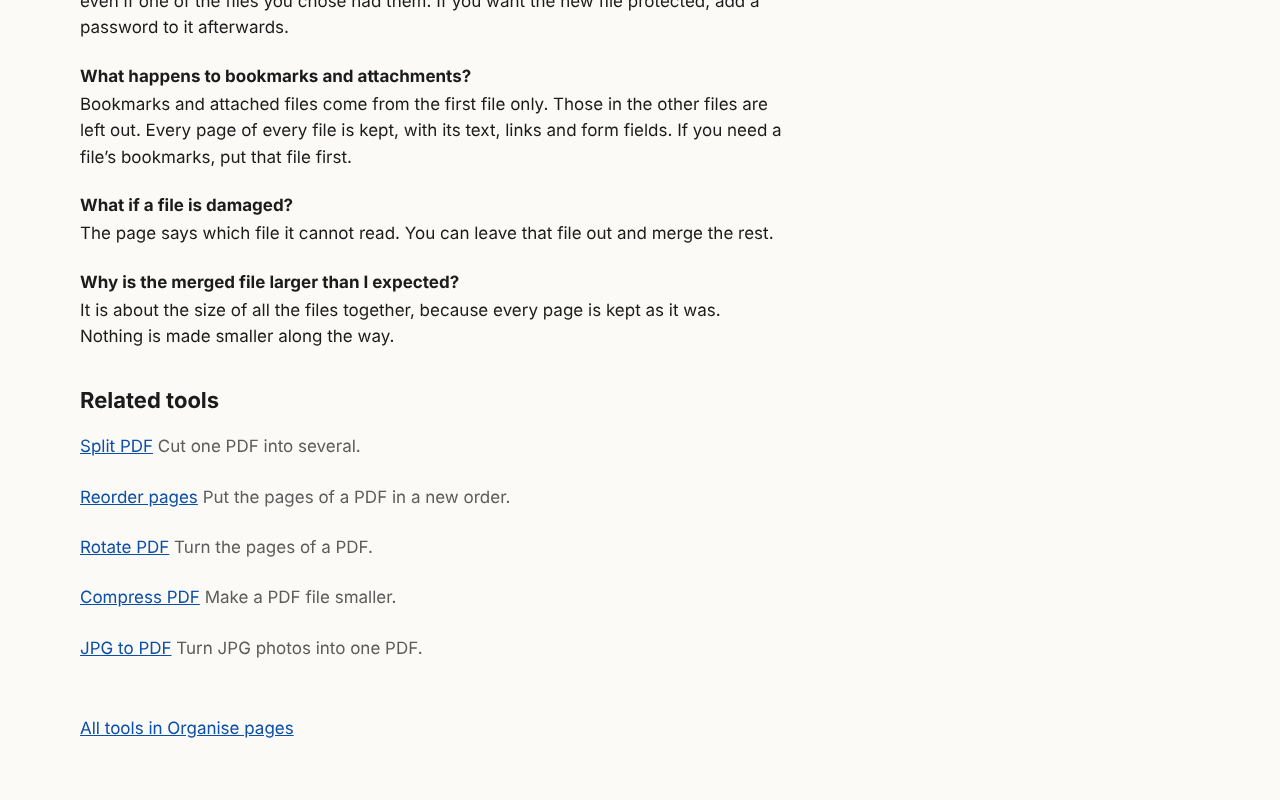
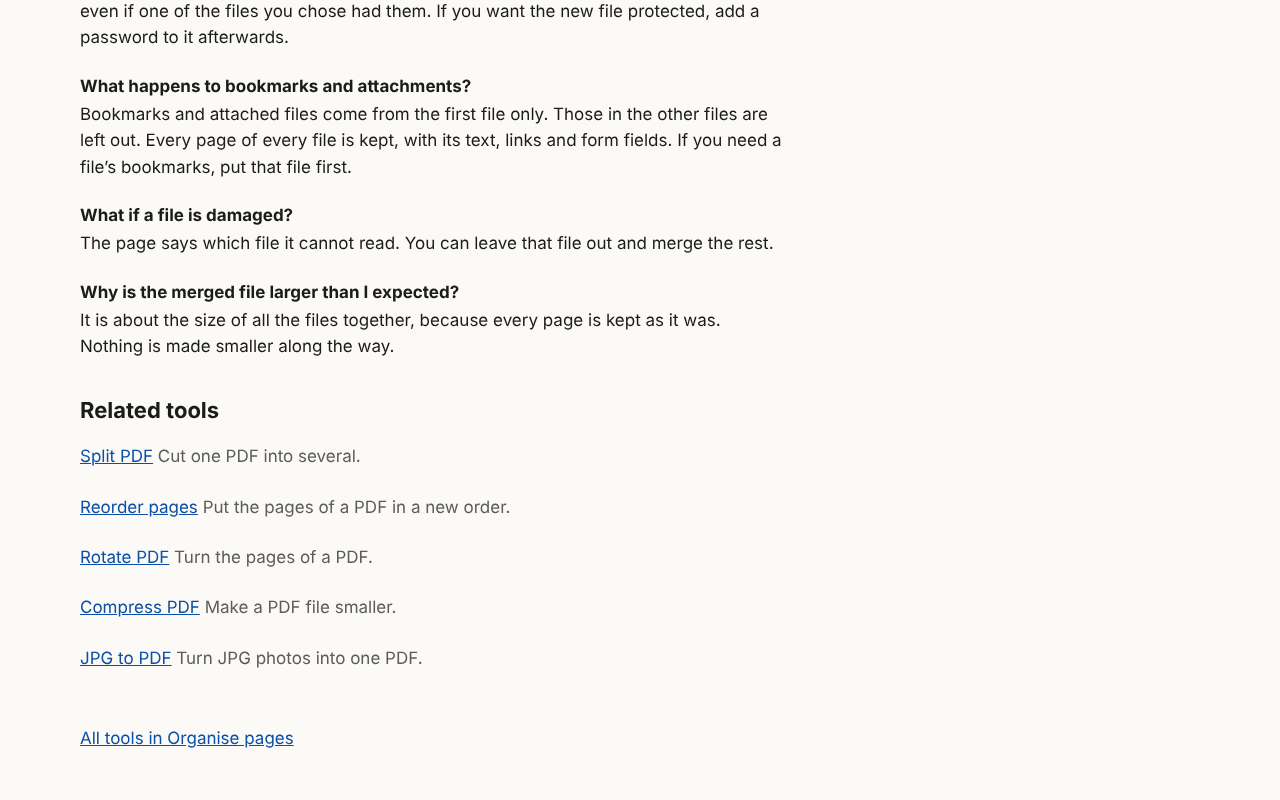
add-search-basics: settle stage 2 review
Hub descriptions claim no more than their tools' pages (Protect: this site
does not upload the file or the password); the group is looked up once;
origin used as checked; the font check catches every Inter family; the
owner's origin is out of the change's files; the 360px hub link shot is
retaken.

Claude-Session: https://claude.ai/code/session_01Ht5n4xeEVAutobXrc7qGtN

diff --git a/src/tools/registry.ts b/src/tools/registry.ts
@@ -326,7 +326,9 @@ export type Tool = {
 /**
  * The seven groups, in the order the home page shows them. A group gets a hub page once it has a
  * published tool. The hub words (title, description, sentence) are drafts for the owner to review.
- * A tool whose addition makes its group's words untrue changes them in its own change.
+ * A tool that joins a group with a hub page updates that group's words in its own change, so the
+ * description still names what the group's tools do and still matches each tool page's own words
+ * about where files go.
  */
 export const groups: Group[] = [
   {
@@ -345,7 +347,7 @@ export const groups: Group[] = [
     slug: 'make-smaller-and-fix',
     title: 'Make a PDF smaller - PDFkaro',
     description: 'Make a PDF file smaller by shrinking its pictures, in your browser. The file stays on your device and is not uploaded.',
-    sentence: 'Make a PDF file smaller by shrinking its pictures.',
+    sentence: 'Tools that make a PDF file smaller.',
     claimsDevice: true,
   },
   {
@@ -371,8 +373,7 @@ export const groups: Group[] = [
     name: 'Edit and sign',
     slug: 'edit-and-sign',
     title: 'Edit and sign a PDF - PDFkaro',
-    description:
-      'Add page numbers, a watermark or a signature to a PDF, in your browser. The file and any signature picture stay on your device and are not uploaded.',
+    description: 'Add page numbers, a watermark or a signature to a PDF, in your browser. The file stays on your device and is not uploaded.',
     sentence: 'Tools that add page numbers, a watermark or a signature to a PDF.',
     claimsDevice: true,
   },
@@ -382,7 +383,7 @@ export const groups: Group[] = [
     slug: 'protect',
     title: 'Add or remove a PDF password - PDFkaro',
     description:
-      'Add a password to a PDF, or remove a password or restrictions, in your browser. The file and any password stay on your device and are not uploaded.',
+      'Add a password to a PDF, or remove a password or restrictions. The file stays on your device. This site does not upload the file or the password.',
     sentence: 'Tools that add a password to a PDF, or remove a password or restrictions.',
     claimsDevice: true,
   },

diff --git a/tests/unit/queries.test.ts b/tests/unit/queries.test.ts
@@ -1,6 +1,6 @@
 import { describe, expect, it } from 'vitest';
 import type { Group, Tool, ToolWidgetWords } from '../../src/tools/registry';
-import { acceptsFor, allPages, findPage, groupsWithItems, hubLink, hubPages, pageWords, relatedItems } from '../../src/tools/queries';
+import { acceptsFor, allPages, findPage, groupOf, groupsWithItems, hubLink, hubPages, pageWords, relatedItems } from '../../src/tools/queries';
 
 const group = (id: Group['id'], name: string, slug: Group['slug']): Group => ({
   id,
@@ -180,13 +180,15 @@ describe('hubPages', () => {
   });
 });
 
-describe('hubLink', () => {
-  it("names the tool's group and links to its hub page under the base", () => {
-    expect(hubLink(groups, tools[1]!, '/')).toEqual({ name: 'Organise pages', href: '/organise-pages' });
-    expect(hubLink(groups, tools[1]!, '/pdfkaro')).toEqual({ name: 'Organise pages', href: '/pdfkaro/organise-pages' });
+describe('groupOf and hubLink', () => {
+  it("find the tool's group and link to its hub page under the base", () => {
+    const group = groupOf(groups, tools[1]!);
+    expect(group.id).toBe('organise');
+    expect(hubLink(group, '/')).toEqual({ name: 'Organise pages', href: '/organise-pages' });
+    expect(hubLink(group, '/pdfkaro')).toEqual({ name: 'Organise pages', href: '/pdfkaro/organise-pages' });
   });
 
-  it('throws for a tool whose group is not in the registry', () => {
-    expect(() => hubLink(groups.slice(0, 1), tools[1]!, '/')).toThrow(/merge/);
+  it('throw for a tool whose group is not in the registry', () => {
+    expect(() => groupOf(groups.slice(0, 1), tools[1]!)).toThrow(/merge/);
   });
 });

diff --git a/tests/unit/seo.test.ts b/tests/unit/seo.test.ts
@@ -9,7 +9,7 @@ const origin = 'https://example.org';
 function dataFor(slug: string, base = '/') {
   const found = findPage(tools, slug)!;
   const group = groups.find((each) => each.id === found.tool.group)!;
-  return toolStructuredData({ tool: found.tool, page: found.page, group, origin, base, siteName });
+  return toolStructuredData({ page: found.page, group, origin, base, siteName });
 }
 
 describe('toolStructuredData', () => {
@@ -76,7 +76,7 @@ describe('jsonForScript', () => {
   const merge = tools.find((tool) => tool.id === 'merge-pdf')!;
   const entry: Tool = { ...merge, id: 'test-hostile', pages: [{ ...merge.pages[0]!, name: hostile, description: `Text ${hostile} here.` }] };
   const group = groups.find((each) => each.id === 'organise')!;
-  const value = toolStructuredData({ tool: entry, page: entry.pages[0]!, group, origin, base: '/', siteName });
+  const value = toolStructuredData({ page: entry.pages[0]!, group, origin, base: '/', siteName });
   const text = jsonForScript(value);
 
   it('leaves no raw <, > or & in the text', () => {

diff --git a/tests/unit/site.test.ts b/tests/unit/site.test.ts
@@ -1,5 +1,5 @@
 import { describe, expect, it } from 'vitest';
-import { absoluteUrl, defaultOrigin, footerLinks, isSiteBase, isSiteOrigin, tagline, withBase } from '../../src/site';
+import { absoluteUrl, defaultOrigin, footerLinks, footerPage, isSiteBase, isSiteOrigin, tagline, withBase } from '../../src/site';
 import { tools as registryTools, type Group, type Tool } from '../../src/tools/registry';
 import { groupsWithItems, relatedItems, toListItem } from '../../src/tools/queries';
 
@@ -137,6 +137,11 @@ describe('the base setting', () => {
 });
 
 describe('footer pages', () => {
+  it('are found by path, and a path with no entry throws', () => {
+    expect(footerPage('/about').label).toBe('About');
+    expect(() => footerPage('/nope')).toThrow('/nope');
+  });
+
   it('each say whether the owner has written them; none is written yet', () => {
     expect(footerLinks.map((link) => [link.href, link.written])).toEqual([
       ['/about', false],

diff --git a/src/tools/queries.ts b/src/tools/queries.ts
@@ -81,10 +81,15 @@ export function hubPages(groups: Group[], tools: Tool[], base: string): HubPage[
   });
 }
 
-/** The hub page link of the group a tool belongs to, as a tool page shows it. */
-export function hubLink(groups: Group[], tool: Tool, base: string): { name: string; href: string } {
+/** The group a tool belongs to. Throws for a group that is not in the registry. */
+export function groupOf(groups: Group[], tool: Tool): Group {
   const group = groups.find((each) => each.id === tool.group);
   if (!group) throw new Error(`Tool ${tool.id} names a group that is not in the registry.`);
+  return group;
+}
+
+/** The link to a group's hub page, as a tool page shows it. */
+export function hubLink(group: Group, base: string): { name: string; href: string } {
   return { name: group.name, href: withBase(base, `/${group.slug}`) };
 }
 

diff --git a/tests/unit/registry.test.ts b/tests/unit/registry.test.ts
@@ -1239,7 +1239,8 @@ describe('new passwords', () => {
 });
 
 describe('group hub pages', () => {
-  // catalogue.ts is a type, so its 54 slugs are read as text, as catalogue.test.ts does.
+  // catalogue.ts is a type, so its slugs are read as text, as catalogue.test.ts does. The pattern matches every
+  // quoted name in the file, a few more than the catalogue's slugs, which only widens what is refused.
   const catalogueSlugs = [...readFileSync('src/tools/catalogue.ts', 'utf8').matchAll(/\| '([^']+)'/g)].map((match) => match[1] ?? '');
   // Addresses a hub page may never take: every footer page (so a new one is covered with no second list), 404 and the two crawler files.
   const reserved = [...footerLinks.map((link) => link.href.slice(1)), '404', 'sitemap.xml', 'robots.txt'];

diff --git a/src/tools/seo.ts b/src/tools/seo.ts
@@ -9,7 +9,6 @@ import type { Group, Tool, ToolPage } from './registry';
 import type { HubPage } from './queries';
 
 type StructuredDataInput = {
-  tool: Tool;
   page: ToolPage;
   group: Group;
   origin: string;
@@ -20,7 +19,6 @@ type StructuredDataInput = {
 /**
  * The JSON-LD of a tool page: one `WebApplication` and one `BreadcrumbList` (home, the
  * group's hub page, the page). Nothing that is not on the page: no rating, review, price or offer.
- * `tool` is taken so a caller passes the page together with the tool that serves it.
  */
 export function toolStructuredData({ page, group, origin, base, siteName }: StructuredDataInput) {
   const url = absoluteUrl(origin, base, `/${page.slug}`);

diff --git a/src/pages/sitemap.xml.ts b/src/pages/sitemap.xml.ts
@@ -8,7 +8,8 @@ import { sitemapPaths, sitemapXml } from '../tools/seo';
 
 export const GET: APIRoute = () => {
   const base = import.meta.env.BASE_URL;
-  const origin = import.meta.env.SITE.replace(/\/+$/, '');
+  // The origin from SITE_ORIGIN, checked in astro.config.mjs: never a trailing slash.
+  const origin = import.meta.env.SITE;
   const paths = sitemapPaths(hubPages(groups, tools, base), tools, footerLinks);
   const body = sitemapXml(paths.map((path) => absoluteUrl(origin, base, path)));
   return new Response(body, { headers: { 'Content-Type': 'application/xml; charset=utf-8' } });

diff --git a/src/pages/robots.txt.ts b/src/pages/robots.txt.ts
@@ -4,6 +4,6 @@ import type { APIRoute } from 'astro';
 import { robotsTxt } from '../tools/seo';
 
 export const GET: APIRoute = () => {
-  const body = robotsTxt(import.meta.env.SITE.replace(/\/+$/, ''), import.meta.env.BASE_URL);
+  const body = robotsTxt(import.meta.env.SITE, import.meta.env.BASE_URL);
   return new Response(body, { headers: { 'Content-Type': 'text/plain; charset=utf-8' } });
 };

diff --git a/openspec/changes/add-search-basics/design.md b/openspec/changes/add-search-basics/design.md
@@ -134,16 +134,16 @@ These are draft words for the owner's review. Each sentence uses the tools' own 
 | Group | Address | Title | Sentence | Description | `claimsDevice` |
 | --- | --- | --- | --- | --- | --- |
 | Organise pages | `/organise-pages` | Organise PDF pages - PDFkaro | Tools that combine, split and reorder the pages of a PDF. | Combine, split, copy out, remove, reorder and turn the pages of a PDF, in your browser. Files stay on your device and are not uploaded. (135) | true |
-| Make smaller and fix | `/make-smaller-and-fix` | Make a PDF smaller - PDFkaro | Make a PDF file smaller by shrinking its pictures. | Make a PDF file smaller by shrinking its pictures, in your browser. The file stays on your device and is not uploaded. (118) | true |
+| Make smaller and fix | `/make-smaller-and-fix` | Make a PDF smaller - PDFkaro | Tools that make a PDF file smaller. | Make a PDF file smaller by shrinking its pictures, in your browser. The file stays on your device and is not uploaded. (118) | true |
 | Convert to PDF | `/convert-to-pdf` | Convert pictures to PDF - PDFkaro | Tools that turn JPG and PNG pictures into a PDF. | Turn JPG and PNG pictures into one PDF, in your browser. The pictures stay on your device and are not uploaded. (111) | true |
 | Convert from PDF | `/convert-from-pdf` | Convert a PDF to pictures - PDFkaro | Tools that turn the pages of a PDF into JPG or PNG pictures. | Turn each page of a PDF into a JPG or PNG picture, in your browser. The file stays on your device and is not uploaded. (118) | true |
-| Edit and sign | `/edit-and-sign` | Edit and sign a PDF - PDFkaro | Tools that add page numbers, a watermark or a signature to a PDF. | Add page numbers, a watermark or a signature to a PDF, in your browser. The file and any signature picture stay on your device and are not uploaded. (148) | true |
-| Protect | `/protect` | Add or remove a PDF password - PDFkaro | Tools that add a password to a PDF, or remove a password or restrictions. | Add a password to a PDF, or remove a password or restrictions, in your browser. The file and any password stay on your device and are not uploaded. (147) | true |
+| Edit and sign | `/edit-and-sign` | Edit and sign a PDF - PDFkaro | Tools that add page numbers, a watermark or a signature to a PDF. | Add page numbers, a watermark or a signature to a PDF, in your browser. The file stays on your device and is not uploaded. (122) | true |
+| Protect | `/protect` | Add or remove a PDF password - PDFkaro | Tools that add a password to a PDF, or remove a password or restrictions. | Add a password to a PDF, or remove a password or restrictions. The file stays on your device. This site does not upload the file or the password. (145) | true |
 | Read and check | `/read-and-check` | Read and check a PDF - PDFkaro | Tools that read a PDF and tell you about it. | Tools that read a PDF and tell you about it. (44) | false |
 
 Numbers in brackets are character counts; each description is under 155. "Read and check" is not built until its first tool, whose change rewrites its words.
 
-- **What the claims cover.** Each device claim names everything its group's tools handle. Edit and sign names the signature picture as well as the file, and Protect names the password. No description says "100%", "never leaves", "secure", or anything about servers. "Stay on your device and are not uploaded" is what each tool page already says.
+- **What the claims cover.** Each device claim uses its tools' own words about where files go, and claims no more (stage 2 privacy review). Edit and sign says "The file stays on your device and is not uploaded", as Sign PDF's page does. Protect says "The file stays on your device. This site does not upload the file or the password", as Protect's and Remove a password's pages do: the browser may save and sync a new password, so no hub says a password stays on the device. No description says "100%", "never leaves", "secure", or anything about servers. "Stay on your device and are not uploaded" is what each tool page already says.
 - **The device-claim guard** (`tool-registry`, "A hub's words claim the device"). The registry test joins each group's title, sentence and description. If they match `/device|browser|upload|never leaves|not sent/i`, the group must declare `claimsDevice: true`. If a group declares it, every published tool in that group must have `runsIn: 'browser'`. Task 1.1 adds a test entry: a server tool in a `claimsDevice` group must trip the guard.
 - **Keeping the words accurate.** A later tool whose addition makes its group's words inaccurate updates them in its own change: a server tool in "Convert to PDF" (the guard forces this), or Repair PDF in "Make smaller and fix", whose sentence fits one tool today.
 
@@ -186,7 +186,7 @@ This rule rests on owner question 2, still open. Until the owner answers, the pu
   Sitemap: <absolute sitemap address>
   ```
 
-- **The preview.** The same files are built under `/pdfkaro/`. Crawlers read `robots.txt` only at an origin's root (`aceparam.github.io/robots.txt`, which this repo does not serve), so the preview's copy is never read. That is fine: `noindex` on every page is what keeps the preview out. A `Disallow` there would do nothing, and if it were ever read it would hide the `noindex` from crawlers. No crawler is pointed at the preview's sitemap.
+- **The preview.** The same files are built under `/pdfkaro/`. Crawlers read `robots.txt` only at an origin's root (the GitHub Pages origin's `/robots.txt`, which this repo does not serve), so the preview's copy is never read. That is fine: `noindex` on every page is what keeps the preview out. A `Disallow` there would do nothing, and if it were ever read it would hide the `noindex` from crawlers. No crawler is pointed at the preview's sitemap.
 - **No `lastmod`.** The build has no honest per-page date. A build date on every page would be noise.
 
 ### 8. `npm run check:seo`
@@ -224,6 +224,7 @@ Before it saves anything, it asks Chromium through the DevTools protocol (`CSS.g
 ## Effect on page weight and late loading
 
 - No script or stylesheet is added, and `weigh` counts HTML, CSS and JavaScript only. Each page gains its head tags: about 0.4 KB raw, under 0.2 KB by gzip. Tool pages also gain the JSON-LD, about 0.6 KB raw and under 0.3 KB by gzip, plus the hub link. The home page does not change.
+- **The cost of one route.** Hub pages share `[slug].astro` with tool pages, so Astro gives them the route's stylesheets too: `ToolWorkspace` and `_slug_`, about 2.2 KB by gzip of CSS a hub page does not use, in two extra stylesheet requests. Measured: hub pages weigh 4.1 to 4.3 KB. No script is shipped. Accepted as the price of one route (decision 4).
 - The social image is not fetched by any page.
 - The task measures the largest page before and after against the 100 KB budget.
 - WebAssembly is still fetched only after a file is picked; nothing here touches the worker.

diff --git a/openspec/changes/add-search-basics/tasks.md b/openspec/changes/add-search-basics/tasks.md
@@ -65,6 +65,8 @@ This change adds no tool, so the usual tool order is followed in spirit: the reg
 
   Pass `path` from `index.astro` (`/`), from each site page (taken from its `footerLinks` entry) and from `404.astro` (`null`).
 
+  Added while building: `footerPage(href)` in `src/site.ts`, which each site page uses to take its path from its `footerLinks` entry and which throws for a path with no entry (tested with `/nope`).
+
   Added while building: `scripts/check-csp.mjs` refused the absolute canonical address as "a <link> points to another site". Let a link whose only `rel` is `canonical` carry an absolute address there, keep refusing every other link (including `rel="canonical stylesheet"`), and cover each case in `tests/unit/csp.test.ts` (design.md decision 2).
 
   Verify: `npm run check` passes. After `npm run build`, `dist/about.html`, `dist/index.html` and `dist/404.html` show the tags of `seo` "Social tags" and "Canonical tag" (none on 404), and only About carries `noindex`.
@@ -76,6 +78,8 @@ This change adds no tool, so the usual tool order is followed in spirit: the reg
   - a clear gap above it in `ToolShell.module.css`, with no heading and no border;
   - `hasBelow` gains `|| Boolean(group)`.
 
+  Added while building: `groupOf(groups, tool)` (throws for a group not in the registry) and `hubLink(group, base)` in `queries.ts`; `[slug].astro` looks the group up once and passes it to `toolStructuredData` and `hubLink`. `toolStructuredData` takes no `tool` (stage 2 review).
+
   In `ToolList`, add `role="list"` to its `ul`. `ToolDirectory` and the home page are not changed. Update `tests/unit/components.test.tsx` and `tests/unit/ToolList.test.tsx`.
 
   Verify: `npm test` passes. The rendered HTML has one hub link per tool page, a tool page with no related tools still shows it, and every `ToolList` has `role="list"`.
@@ -86,6 +90,8 @@ This change adds no tool, so the usual tool order is followed in spirit: the reg
   - `dist/social.png` exists after a build;
   - `npm run check:worker` and `npm run weigh` still pass (neither counts it).
 - [x] 3.6 Check the changed and new pages against "Banned patterns" and "How the words should read": a hub page, a tool page, About and 404. Search their visible text, and every hub title, sentence and description, for the banned words, "unlock", exclamation marks, "100%", "never leaves", "secure" and anything about servers. Verify: nothing is found, and this is recorded in the pull request.
+
+- [x] 3.7 Added at stage 2 (privacy): each hub description claims no more than its tools' own pages. Edit and sign: "The file stays on your device and is not uploaded." Protect: "The file stays on your device. This site does not upload the file or the password." (the browser may save and sync a new password). "Make smaller and fix" sentence: "Tools that make a PDF file smaller." The design table follows. Verify: `npm test` and `npm run check:seo` pass.
 
 ## 4. Build check
 
@@ -159,4 +165,4 @@ This change adds no tool, so the usual tool order is followed in spirit: the reg
   - Add the six owner questions under "Questions waiting for the owner". Mark questions 1 to 3 as needing an answer before launch, and say so beside the Phase 1 gate note in "Where the project stands", because they decide whether the "Definition of done, The site" sitemap and hub items pass.
   - Add the hub and hub-link words to the page text review in issue #7.
 - The Privacy page draft change sets `/privacy` to `written: true` in `footerLinks`.
-- Any later tool whose addition makes its group's hub words inaccurate updates them in its own change. The device-claim guard forces this for a server tool; Repair PDF must update "Make smaller and fix". The first server tool trips the tagline guard: its change stops and asks the owner for a new tagline, then makes the social image again. The first "Read and check" tool's change writes that group's words, and gets its hub page with no extra work.
+- A tool that joins a group with a hub page updates that group's description prose in its own change, matching its own page's words about where files go (also said in the comment above `groups` in `registry.ts`). Any later tool whose addition makes its group's hub words inaccurate updates them in its own change. The device-claim guard forces this for a server tool; Repair PDF must update "Make smaller and fix". The first server tool trips the tagline guard: its change stops and asks the owner for a new tagline, then makes the social image again. The first "Read and check" tool's change writes that group's words, and gets its hub page with no extra work.

diff --git a/openspec/changes/add-search-basics/proposal.md b/openspec/changes/add-search-basics/proposal.md
@@ -6,7 +6,7 @@
 
 ## What Changes
 
-- **One build setting for absolute addresses.** A new `SITE_ORIGIN` setting is used by the canonical tag, `og:url`, `og:image`, the JSON-LD and the sitemap. It is a plain origin such as `https://aceparam.github.io`, checked like `SITE_BASE`. With no setting it is `http://localhost:4321`, the address of `npm run preview` and the end-to-end tests. No build writes an address on a domain the owner does not hold. The preview workflow sets it to the GitHub Pages origin, and the preview keeps its `noindex` tag.
+- **One build setting for absolute addresses.** A new `SITE_ORIGIN` setting is used by the canonical tag, `og:url`, `og:image`, the JSON-LD and the sitemap. It is a plain origin such as `https://example.org`, checked like `SITE_BASE`. With no setting it is `http://localhost:4321`, the address of `npm run preview` and the end-to-end tests. No build writes an address on a domain the owner does not hold. The preview workflow sets it to the GitHub Pages origin, and the preview keeps its `noindex` tag.
 - **Canonical and social tags on every page** except the 404 page, which is served at any missing address and so has no address of its own:
   - a self-referencing `<link rel="canonical">`;
   - `og:type`, `og:title`, `og:description`, `og:url`, `og:image` with its width, height and alt text.
@@ -113,7 +113,7 @@ None.
   - `scripts/check-base.mjs`: runs the search check on its build.
   - `.github/workflows/ci.yml` and `pages.yml`.
   - `package.json`: the script, and `engines` raised to Node 22.18 so the check can import the registry's TypeScript.
-  - `tests/e2e/pages.ts`, `site.spec.ts` and `home.spec.ts`.
+  - `tests/e2e/pages.ts` and `site.spec.ts`.
   - CLAUDE.md's commands list (after merge, by the coordinator).
 - **Dependencies:** none new.
 - **Page weight:** a few hundred bytes of HTML by gzip on each page for the head tags, and under 1 KB on tool pages with the JSON-LD. The home page changes only by its head tags. No script or stylesheet is added. Measured in tasks against the 100 KB budget.
